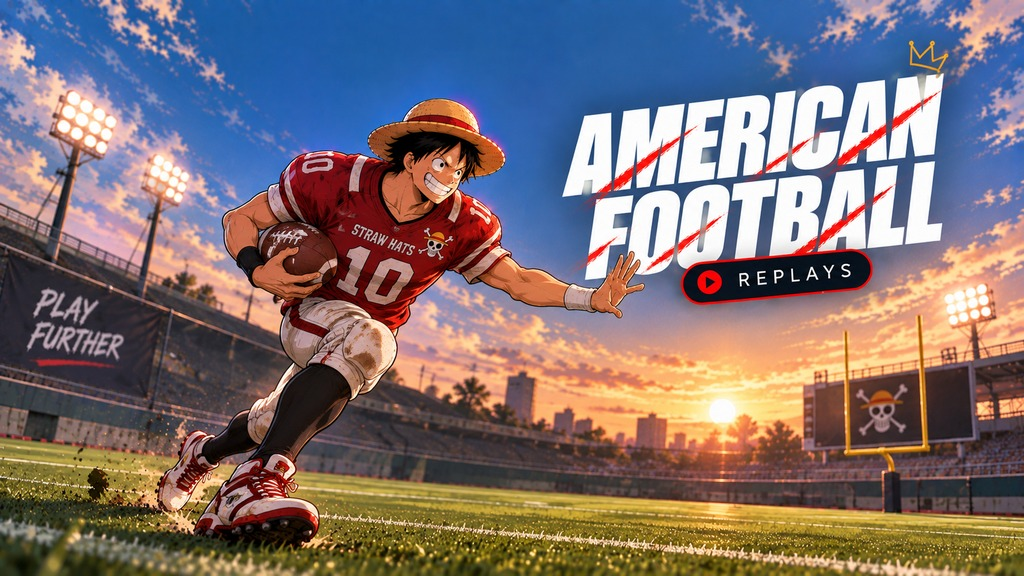
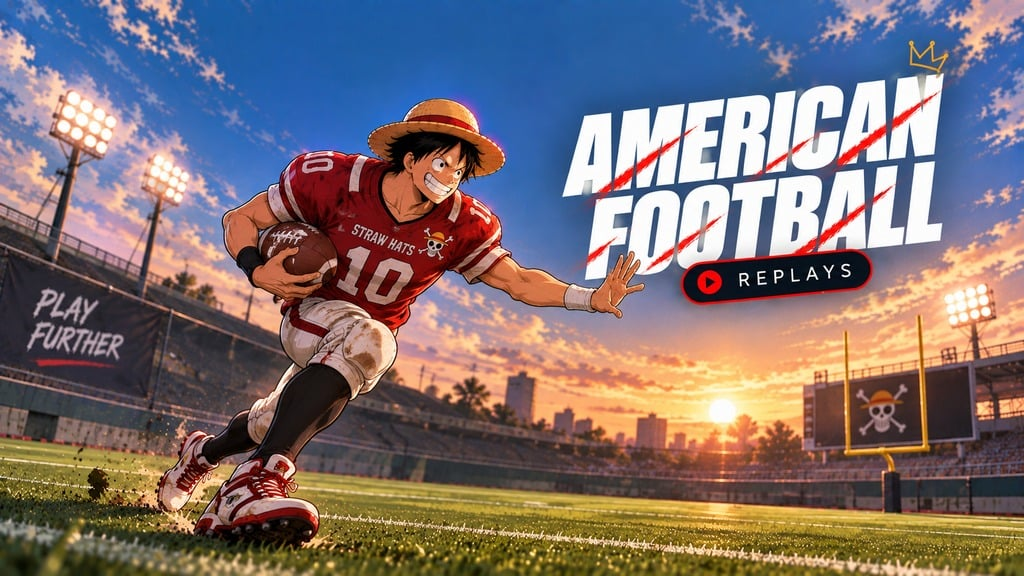
fix(images): cache /posters instead of no-store; recompress replay artwork (-53%)

diff --git a/src/index.js b/src/index.js
@@ -55,12 +55,15 @@ const app = express();
 app.set('trust proxy', true);
 app.use(cors());
 
+// Artwork under /posters is large (the replay hero JPEGs are ~100-200 KB) and
+// rarely changes, but it used to be sent with no-store. That made Cloudflare
+// report BYPASS, so every view pulled the bytes from origin - the largest
+// bandwidth cost on the host. Serve it as a long-lived public asset instead.
+// References carry a ?v= cache-buster whenever the artwork is replaced.
 const posterStaticOptions = {
-  maxAge: 0,
+  maxAge: '30d',
   setHeaders: (res) => {
-    res.setHeader('Cache-Control', 'no-cache, no-store, must-revalidate');
-    res.setHeader('Pragma', 'no-cache');
-    res.setHeader('Expires', '0');
+    res.setHeader('Cache-Control', 'public, max-age=2592000, stale-while-revalidate=604800');
   }
 };
 app.use('/posters', express.static(path.join(__dirname, '..', 'public', 'posters'), posterStaticOptions));
